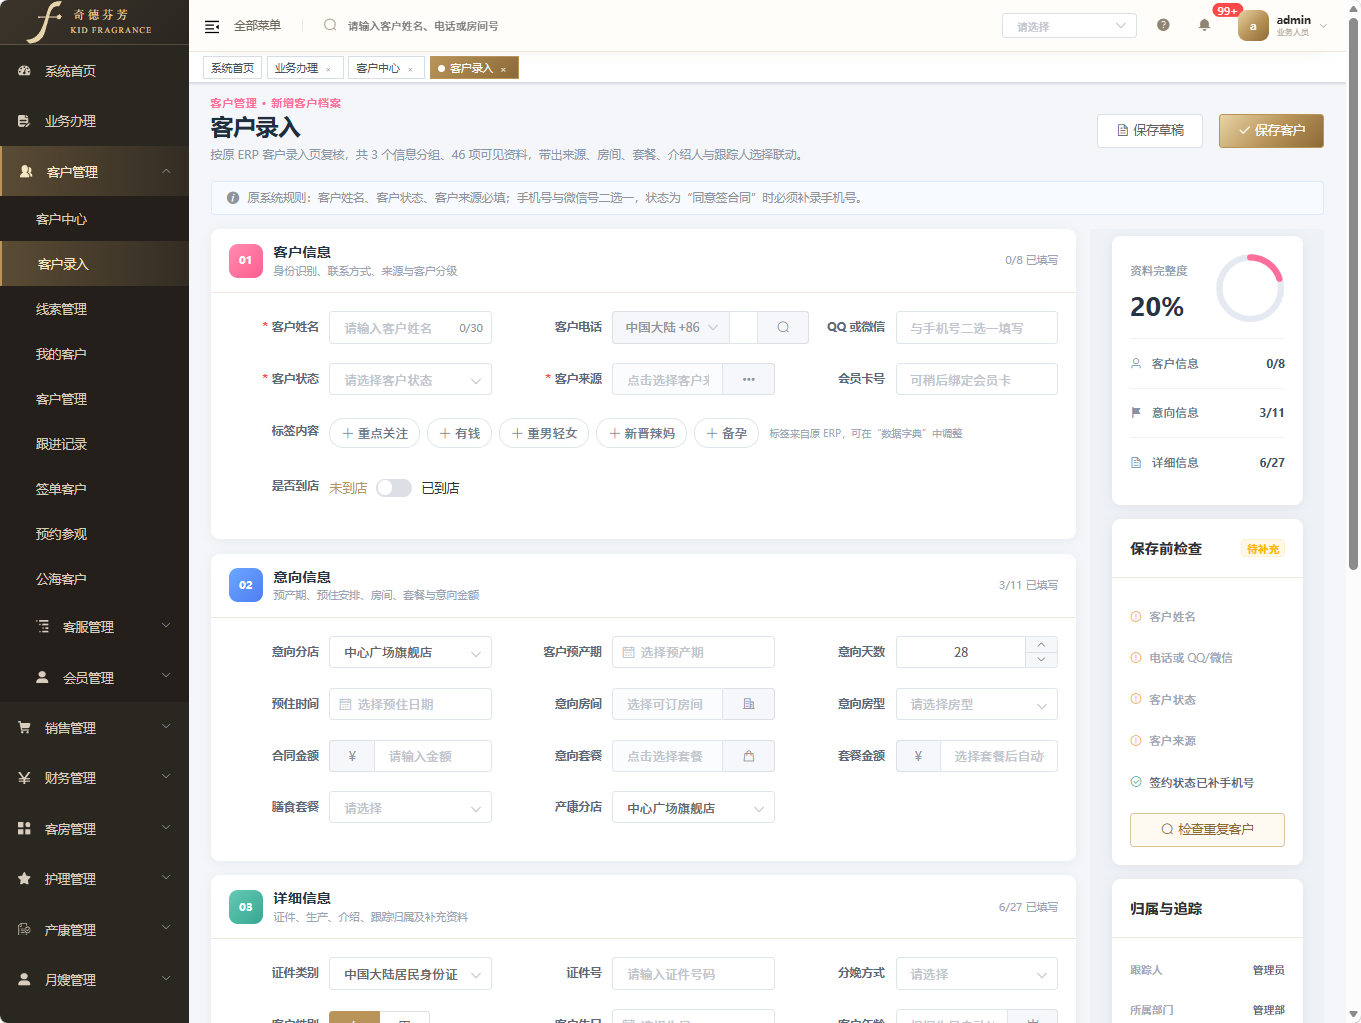
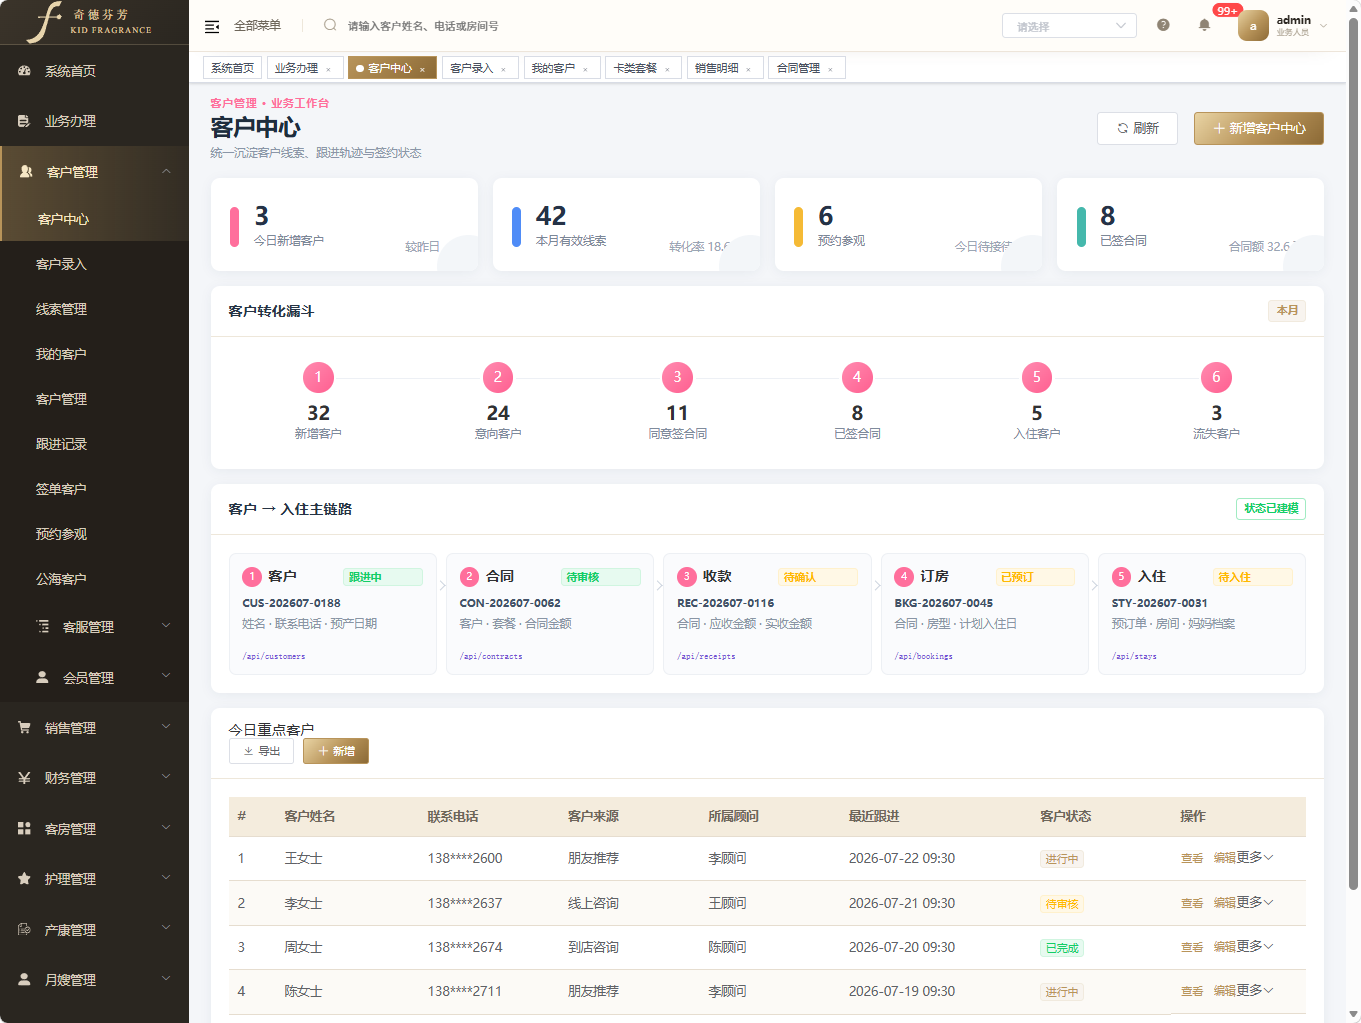
docs: replace customer preview

diff --git a/README.md b/README.md
@@ -34,9 +34,9 @@
 <table>
   <tr>
     <td width="50%" align="center">
-      <img src="./docs/screenshots/customer-entry.png" alt="客户管理客户录入">
+      <img src="./docs/screenshots/customer-entry.png" alt="客户管理客户中心">
       <br>
-      <sub>客户管理 · 客户录入、完整度检查与归属追踪</sub>
+      <sub>客户管理 · 客户中心、转化漏斗与入住主链路</sub>
     </td>
     <td width="50%" align="center">
       <img src="./docs/screenshots/dashboard.png" alt="奇德芬芳 ERP 系统首页">
